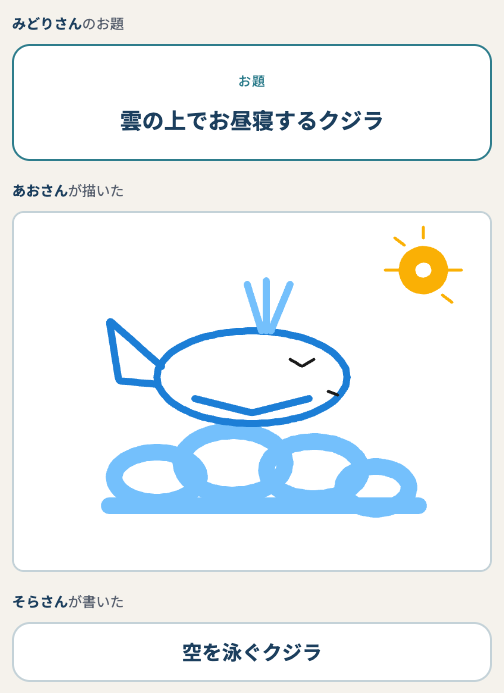
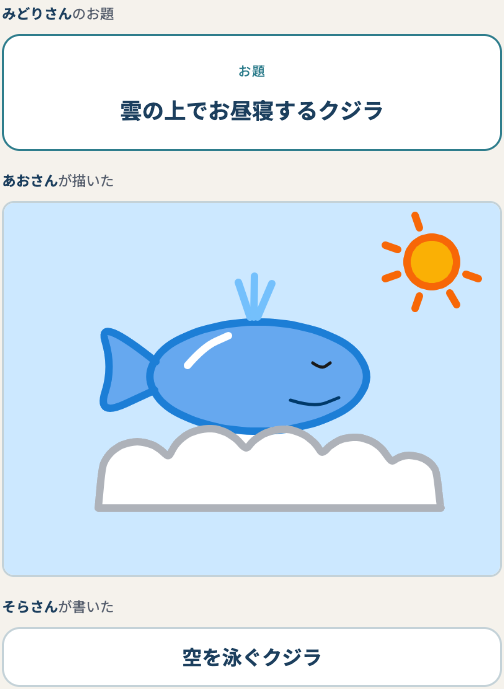
chore(oekaki-dengon): サムネイルを塗りつぶしを使った絵に撮り直す
白色と塗りつぶしの追加に合わせた差し替え。撮り方・名前・お題と書いた文は
前回と同じで、絵は撮影用の見本。大きさは 504×689（一覧の height を合わせる）。

diff --git a/apps/index.html b/apps/index.html
@@ -1504,7 +1504,7 @@
         <a class="app-card" href="oekaki-dengon/" data-slides data-scenes="bodoge" data-yomi="おえかきでんごんげーむ" data-keywords="伝言、お絵描き">
           <div class="app-card__icon">
             <span class="material-symbols-rounded" aria-hidden="true">draw</span>
-            <img class="app-card__thumbnail" src="assets/thumbnails/oekaki-dengon.png" alt="お題の文と、それを見て描いた絵、絵を見て書いた文が順番に並ぶ見せあいの画面" width="504" height="693" loading="lazy" decoding="async" />
+            <img class="app-card__thumbnail" src="assets/thumbnails/oekaki-dengon.png" alt="お題の文と、それを見て描いた絵、絵を見て書いた文が順番に並ぶ見せあいの画面" width="504" height="689" loading="lazy" decoding="async" />
           </div>
           <div class="app-card__body">
             <div class="app-card__name">お絵描き伝言ゲーム</div>

diff --git a/docs/development/thumbnails.md b/docs/development/thumbnails.md
@@ -6,6 +6,7 @@
 do-mannaka は結果画面、kaburazu-hint は回答画面を写しており、今回変更したお題カードは写っていないため、画像を維持した。
 2026-09-25に kimochi-map を気持ち当てゲーム（kimochi-ate）へ作り変え、`kimochi-ate.png` を新しく撮った（旧 `kimochi-map.png` は削除）。撮影は隔離したエミュレーター上の架空のルーム（名前は撮影用の「みどり」「そら」「あお」、場面は既存データの1枚目）で、本番には接続していない。
 2026-09-28に oekaki-dengon を追加した。エミュレーター（本番に書き込まない検証環境）で架空の名前「そら」「みどり」「あお」の1ゲームを進め、見せあい画面のアルバムを撮影した。絵は撮影用に描いた見本。
+2026-10-05に oekaki-dengon を撮り直した（白色と塗りつぶしの追加に合わせ、塗りつぶしと白を使った絵にした）。撮り方・名前・お題と書いた文は前回と同じで、絵は撮影用に描いた見本。大きさは 504×689。
 2026-09-29に career-sugoroku（キャリアすごろく）を作り直して追加した（v1 の画像は 2026-09-28 の公開停止で削除済み）。エミュレーター（本番に書き込まない検証環境）で架空の名前「そら」「みどり」「あお」のルームを17手番まで進め、駒が散らばった盤面（`.cs-board` の範囲）を撮影した。右下の「？」ボタンは撮影時だけ隠した。
 2026-10-03に stamp-ate（スタンプあてゲーム）を追加した。エミュレーター（本番に書き込まない検証環境）に架空のルーム（名前は撮影用の「そら」「みどり」「あお」「ひかり」）を答え合わせの状態で置き、みんなにみせる画面の答え合わせ（`#revealSummary` から `#revealPictures` まで）を撮影した。絵（家・クリスマスツリー・太陽）は撮影用に置いたスタンプの見本で、お題は既存データの語を使った。
 2026-10-03に kagi-awase（カギあわせ）を追加した。エミュレーター（本番に書き込まない検証環境）に架空のルーム（名前は撮影用の「そら」「みどり」「あお」）を遊んでいる途中の状態で置き、みんなにみせる画面の警報ランプからカギの列まで（`#gameStatus` から `#board` まで）を撮影した。カギの並び・あいたカギ・見えている数字は撮影用に置いた見本。
